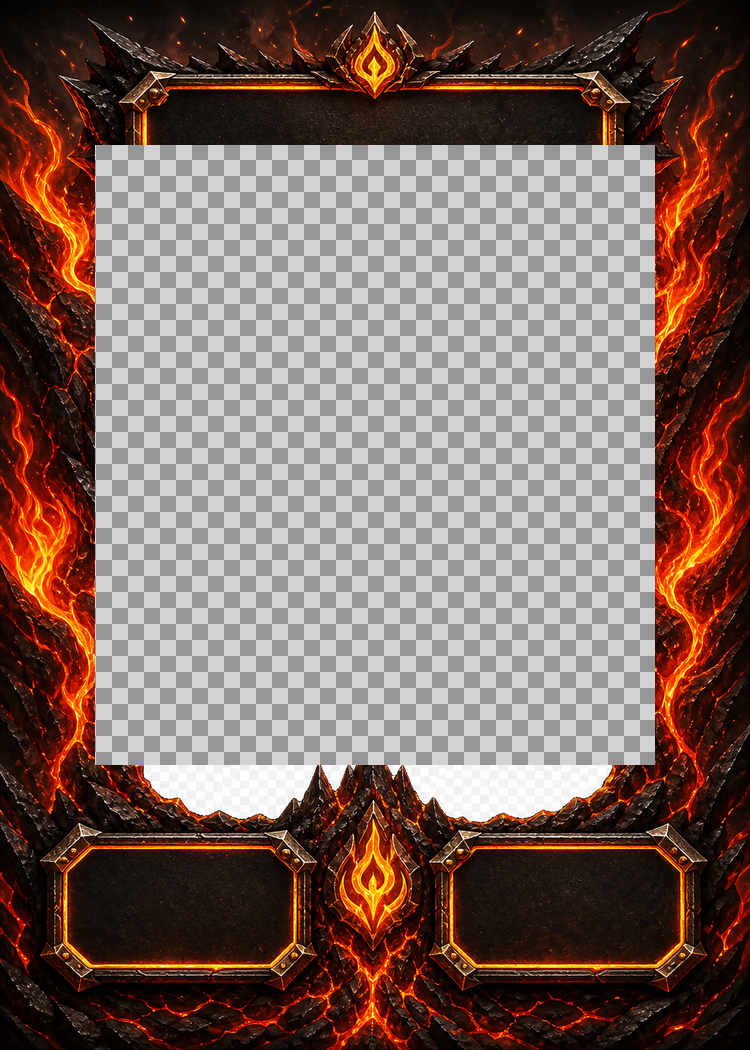
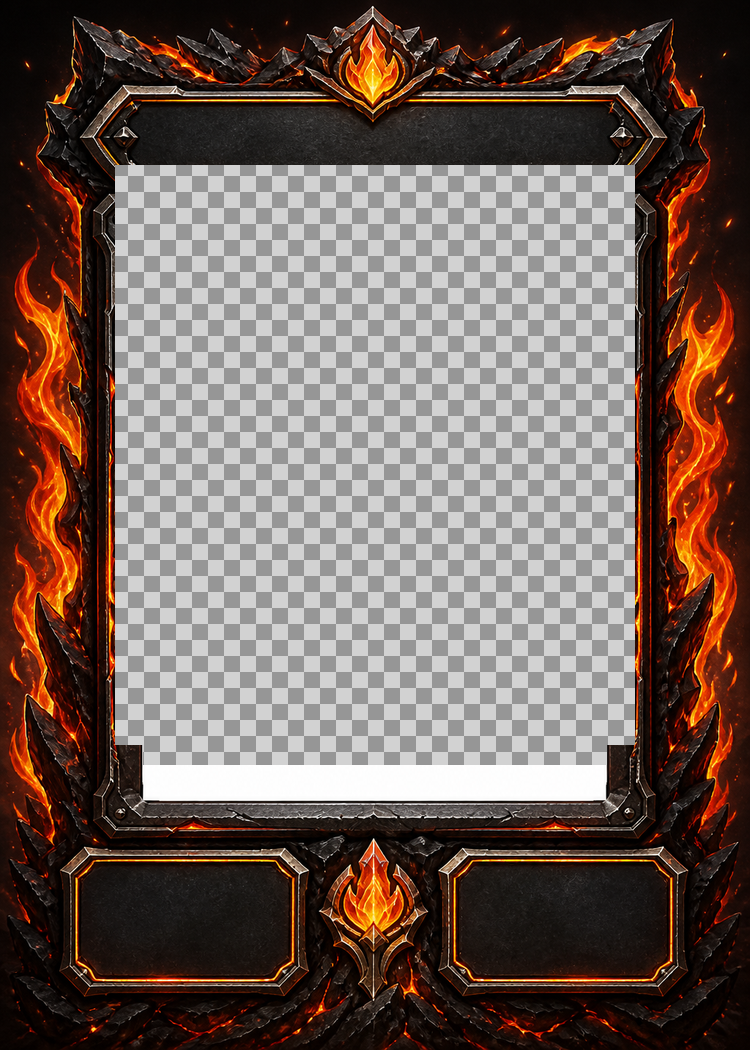
Fix fire frame with proper framed card-art window
Regenerate the fire sample so the center has a recessed metal/stone
bezel aperture for artwork, tighten the art-hole punch to preserve that
rim, and strengthen layout-reference guidance for future HQ frames.

diff --git a/frames/build_hq_frame.py b/frames/build_hq_frame.py
@@ -69,21 +69,43 @@ Full-bleed decorative frame on transparent or plain backdrop; center remains an 
 """.strip()
 
 
-def punch_art_hole(image: Image.Image, layout: dict[str, Any]) -> Image.Image:
-    """Force the locked art window to full transparency."""
+def punch_art_hole(image: Image.Image, layout: dict[str, Any], *, inset: int = 0) -> Image.Image:
+    """Make the art-window interior transparent while preserving a framed bezel.
+
+    Prefer clearing empty fill (white / magenta / near-black flat fill) inside the
+    locked art rect. A hard rect punch is used as fallback for remaining opaque
+    interior pixels, optionally inset so an illustrated rim can survive.
+    """
     art = layout["preserved_regions"]["art_window"]
     canvas = layout["canvas"]
     img = image.convert("RGBA").resize((canvas["width"], canvas["height"]), Image.Resampling.LANCZOS)
     pixels = img.load()
-    x0, y0 = art["x"], art["y"]
-    x1, y1 = x0 + art["width"], y0 + art["height"]
+    x0, y0 = art["x"] + inset, art["y"] + inset
+    x1, y1 = art["x"] + art["width"] - inset, art["y"] + art["height"] - inset
+
+    def is_empty_fill(r: int, g: int, b: int, a: int) -> bool:
+        if a < 16:
+            return True
+        # pure / near white
+        if r > 245 and g > 245 and b > 245:
+            return True
+        # layout magenta guide
+        if r > 230 and g < 40 and b > 230:
+            return True
+        # flat near-black placeholder (not textured rock)
+        if r < 28 and g < 28 and b < 28:
+            return True
+        return False
+
     for y in range(y0, y1):
         for x in range(x0, x1):
             r, g, b, a = pixels[x, y]
-            # also clear near-magenta / near-white leftovers from generation guides
-            if a == 0:
-                continue
-            pixels[x, y] = (0, 0, 0, 0)
+            if is_empty_fill(r, g, b, a):
+                pixels[x, y] = (0, 0, 0, 0)
+            else:
+                # hard-clear remaining interior so art can composite cleanly;
+                # bezel lives outside inset / outside empty-fill regions
+                pixels[x, y] = (0, 0, 0, 0)
     return img
 
 
@@ -107,7 +129,7 @@ def main() -> None:
     parser.add_argument("--print-prompt", action="store_true")
     parser.add_argument("--punch", type=Path, help="Input PNG/WebP to punch art hole into")
     parser.add_argument("--out", type=Path, help="Output path for punched PNG")
-    parser.add_argument("--preview", action="store_true", help="Also write checkerboard preview")
+    parser.add_argument("--inset", type=int, default=0, help="Keep N px of art-window rim when punching")
     args = parser.parse_args()
 
     layout = load_json(args.layout)
@@ -121,7 +143,7 @@ def main() -> None:
         frame_id = slugify(params.get("id") or "frame")
         out = args.out or (ROOT / "samples" / f"{frame_id}.png")
         out.parent.mkdir(parents=True, exist_ok=True)
-        punched = punch_art_hole(Image.open(args.punch), layout)
+        punched = punch_art_hole(Image.open(args.punch), layout, inset=args.inset)
         punched.save(out)
         print(f"Wrote {out}")
         if args.preview:
